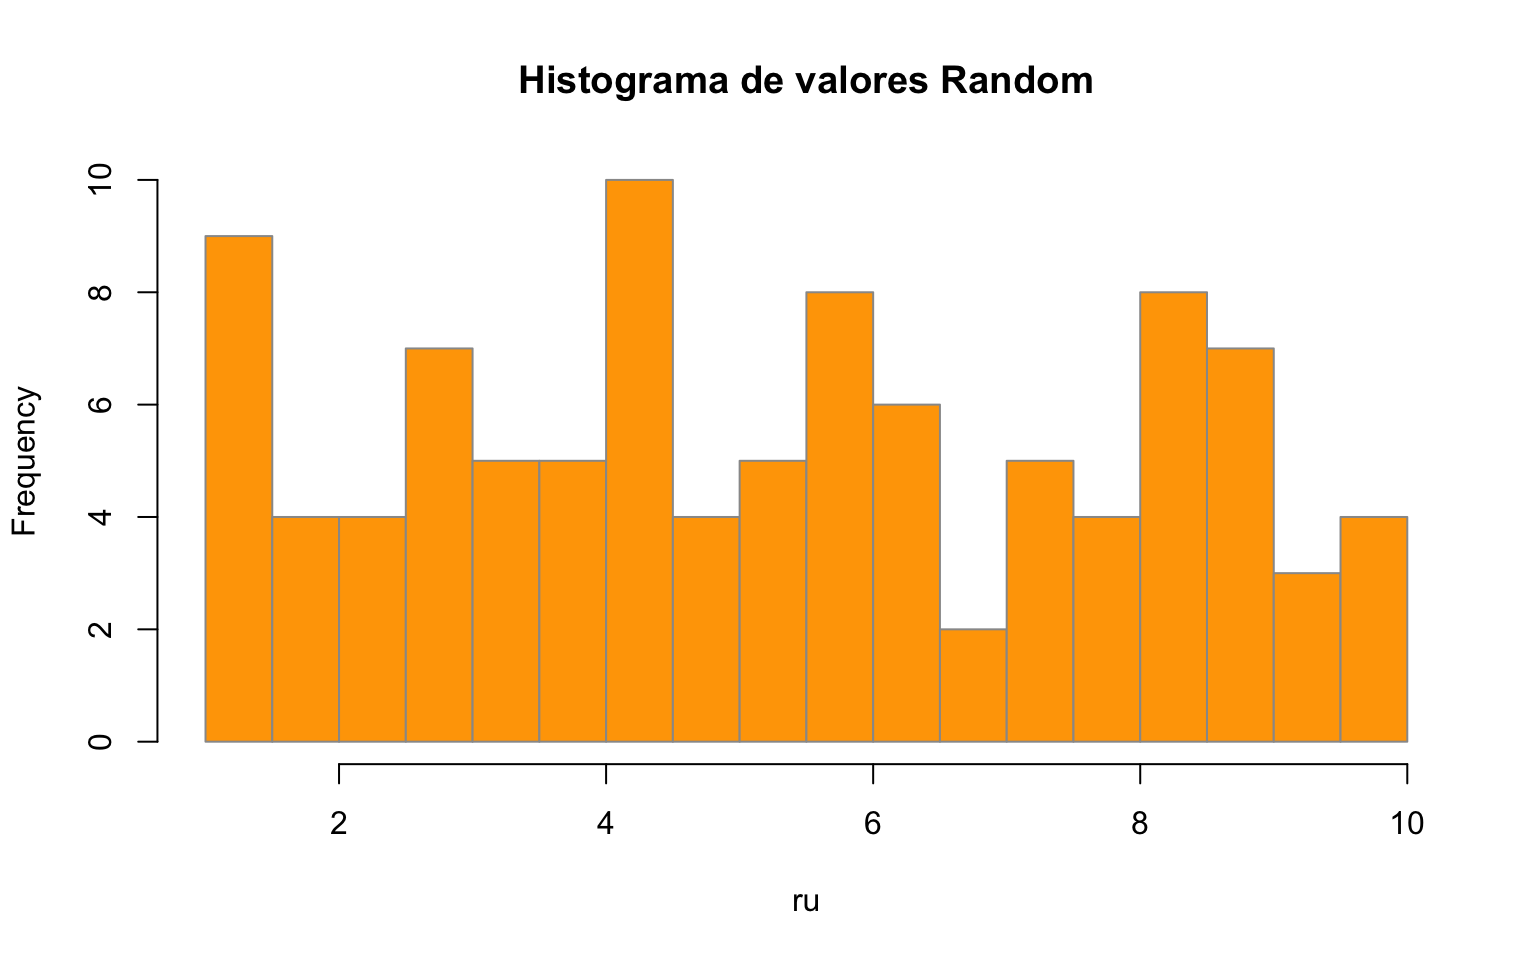
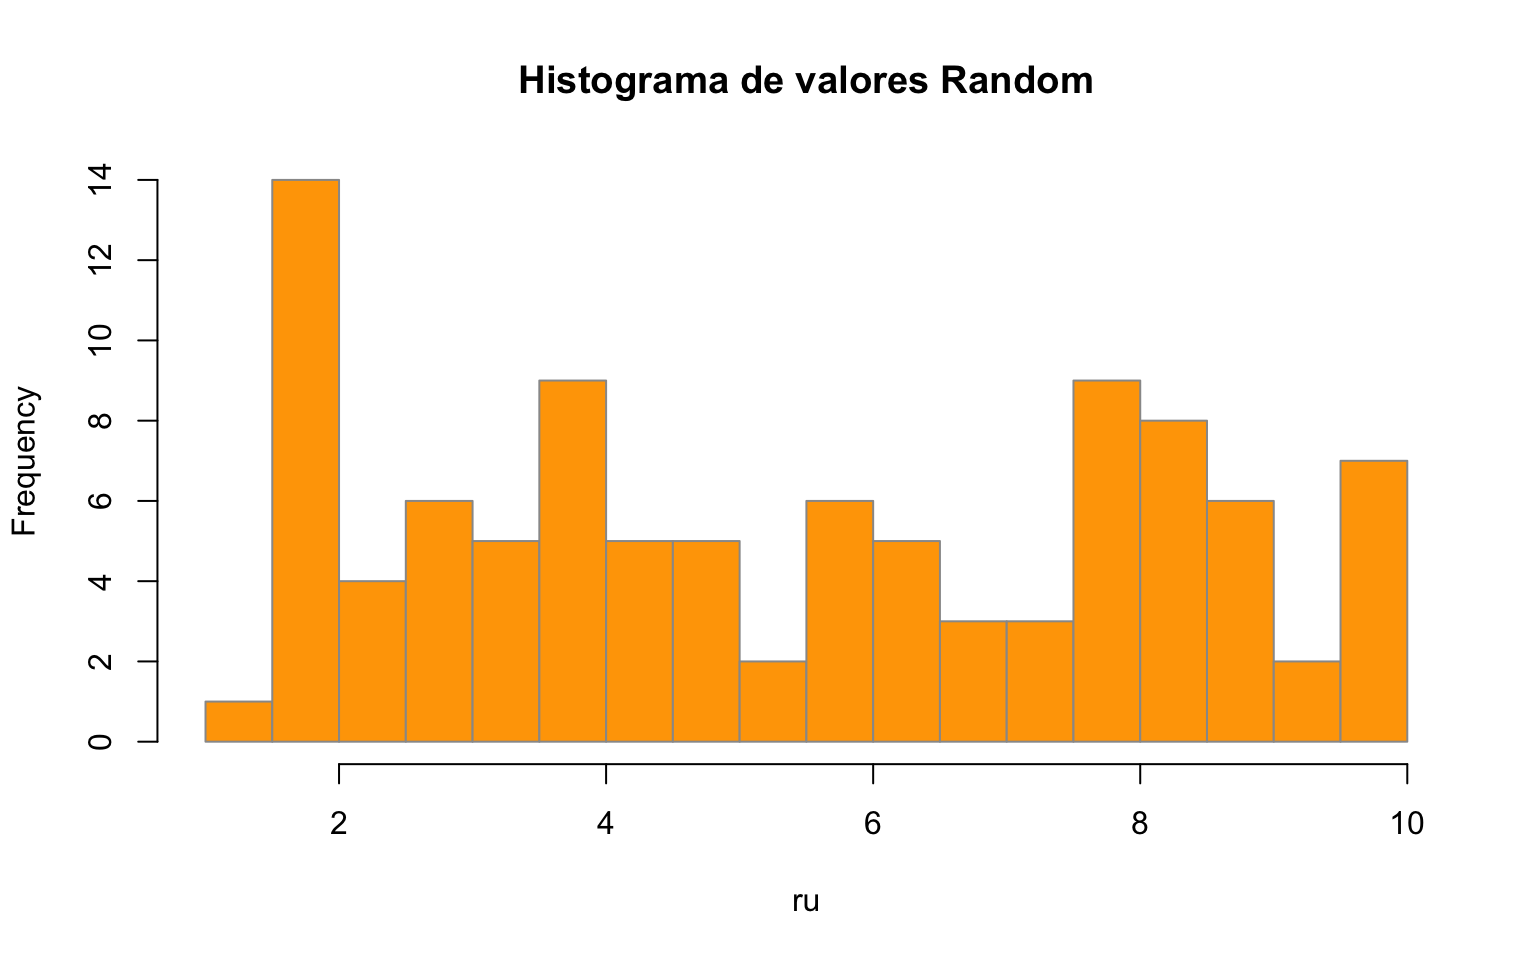
Built site for gh-pages

diff --git a/variables.html b/variables.html
@@ -299,19 +299,19 @@ pre > code.sourceCode > span > a:first-child::before { text-decoration: underlin
 <div class="sourceCode cell-code" id="cb7"><pre class="sourceCode r code-with-copy"><code class="sourceCode r"><span id="cb7-1"><a href="#cb7-1" aria-hidden="true" tabindex="-1"></a>ru <span class="ot">&lt;-</span> <span class="fu">runif</span>(<span class="at">n =</span> <span class="dv">100</span>, <span class="at">min =</span> <span class="dv">1</span>, <span class="at">max =</span> <span class="dv">10</span>)</span>
 <span id="cb7-2"><a href="#cb7-2" aria-hidden="true" tabindex="-1"></a>ru</span></code><button title="Copy to Clipboard" class="code-copy-button"><i class="bi"></i></button></pre></div>
 <div class="cell-output cell-output-stdout">
-<pre><code>  [1] 1.011728 2.828755 5.918514 8.751832 6.069835 4.343950 8.099645 5.232778
-  [9] 6.927419 9.643640 7.339473 1.460944 8.111611 8.484203 5.859916 4.306348
- [17] 2.620171 8.390727 5.152720 4.919415 3.914015 1.570102 3.808400 8.103665
- [25] 9.957293 6.252282 2.639782 7.870583 2.065615 7.251375 5.548467 4.485396
- [33] 1.957488 4.956959 8.165486 4.440490 1.718151 7.144725 9.019023 4.898143
- [41] 2.009330 1.213619 5.389248 7.653484 4.615150 3.430219 9.637659 6.275133
- [49] 8.658232 9.658552 5.070385 8.975701 2.169456 2.442759 8.556177 4.092022
- [57] 8.601273 9.411765 4.171663 5.567079 6.352294 8.755612 3.386149 7.603966
- [65] 6.034628 2.774033 1.491868 8.270355 1.529122 2.552231 5.643082 9.199814
- [73] 1.473342 1.351972 5.045159 6.973867 5.837140 2.564269 7.543544 3.967257
- [81] 2.590294 3.623518 3.398939 4.250200 4.369685 7.373007 8.679284 8.218290
- [89] 1.142981 5.621060 4.378559 6.494968 3.721895 4.145099 3.303145 1.251278
- [97] 7.429997 5.861112 1.281298 3.124993</code></pre>
+<pre><code>  [1] 8.274139 2.915415 1.667403 8.721928 1.908290 7.819251 3.523512 7.416458
+  [9] 3.778241 8.845600 9.899638 5.373193 5.706852 1.515494 3.702031 1.640298
+ [17] 8.346168 1.752043 7.522499 8.596463 7.991121 4.522336 6.221917 8.005245
+ [25] 7.978926 9.682614 4.492509 8.758485 5.526427 9.115014 4.372447 7.024597
+ [33] 2.582246 3.985649 3.776100 9.600055 6.195948 1.808539 4.416937 3.511145
+ [41] 4.474453 7.755198 2.663202 3.944251 2.157326 4.195938 1.667508 1.772267
+ [49] 3.166386 6.485610 1.909972 9.582128 1.668502 6.081119 1.741352 8.251134
+ [57] 8.626480 9.988554 7.924229 3.410139 9.472138 9.933384 1.785383 3.526145
+ [65] 1.839389 3.654277 8.038832 2.045167 4.661122 2.639399 8.789898 8.207928
+ [73] 6.796421 5.547561 7.975922 5.774159 5.557688 8.466252 6.268506 2.330701
+ [81] 2.688265 4.884169 6.514728 9.628010 3.492479 5.685797 7.592432 3.277868
+ [89] 4.849547 5.224839 7.595482 1.959127 2.885203 2.020693 8.137079 6.725374
+ [97] 4.788291 3.048558 7.402840 1.464764</code></pre>
 </div>
 </div>
 <div class="cell" data-layout-align="center">
@@ -330,7 +330,7 @@ pre > code.sourceCode > span > a:first-child::before { text-decoration: underlin
 <div class="cell">
 <div class="sourceCode cell-code" id="cb10"><pre class="sourceCode r code-with-copy"><code class="sourceCode r"><span id="cb10-1"><a href="#cb10-1" aria-hidden="true" tabindex="-1"></a><span class="fu">sample.int</span>(<span class="at">n =</span> <span class="dv">6</span>, <span class="at">size =</span> <span class="dv">10</span>, <span class="at">replace =</span> T)</span></code><button title="Copy to Clipboard" class="code-copy-button"><i class="bi"></i></button></pre></div>
 <div class="cell-output cell-output-stdout">
-<pre><code> [1] 1 4 1 4 2 1 4 1 3 5</code></pre>
+<pre><code> [1] 5 4 2 4 3 1 1 4 3 4</code></pre>
 </div>
 </div>
 </section>

diff --git a/index.html b/index.html
@@ -7,7 +7,7 @@
 <meta name="viewport" content="width=device-width, initial-scale=1.0, user-scalable=yes">
 
 <meta name="author" content="Denis Berroeta González">
-<meta name="dcterms.date" content="2025-07-22">
+<meta name="dcterms.date" content="2026-07-21">
 
 <title>Curso de Geoanálisis</title>
 <style>
@@ -227,7 +227,7 @@ ul.task-list li input[type="checkbox"] {
     <div>
     <div class="quarto-title-meta-heading">Published</div>
     <div class="quarto-title-meta-contents">
-      <p class="date">July 22, 2025</p>
+      <p class="date">July 21, 2026</p>
     </div>
   </div>
   
